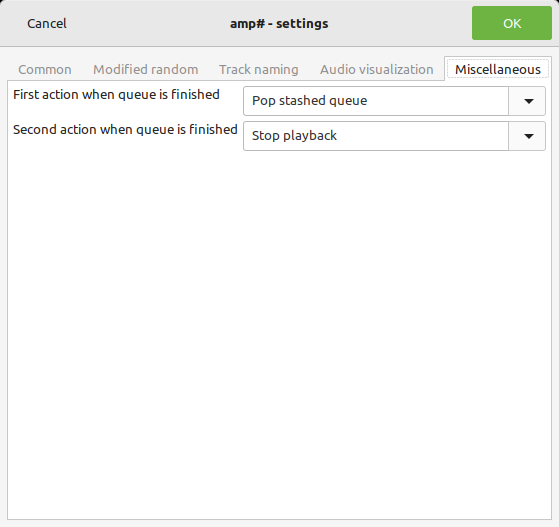
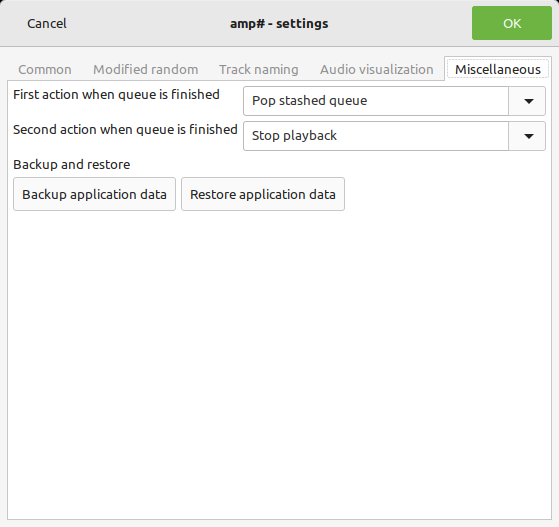
Update help.

Changed region(s): [[0.0, 0.3036, 0.6082, 0.3947]]

diff --git a/Help/amp-fi/docs/command_line.md b/Help/amp-fi/docs/command_line.md
@@ -1,0 +1,22 @@
+# Komentoriviparametrit
+Sovellus tukee komentoriviparametrejä enimmäkseen varmuuskopiointia ja varmuuskopion palautusta varten.
+
+Komentoriviparametrien aputekstin saa näkyviin käyttämällä `--help`-valitsinta.
+
+```
+amp.EtoForms 1.0.1.3
+Copyright © VPKSoft 2022
+
+  -p, --pid        Prosessitunniste (PID) jonka päättymistä
+                   odottaa ennen sovelluksen käynnistämistä.
+
+  -b, --backup     Tiedostonimi johon varmuuskopioida sovelluksen
+                   tiedot ennen käynnistymistä.
+
+  -r, --restore    Palauttaa ZIP-pakatun  varmuuskopioin sovelluksen
+                   tietokansioon kirjoittaen yli olemassa olevat tiedostot.
+
+  --help           Näytä tämä apunäkymä.
+
+  --version        Näytä versiotiedot.
+```
